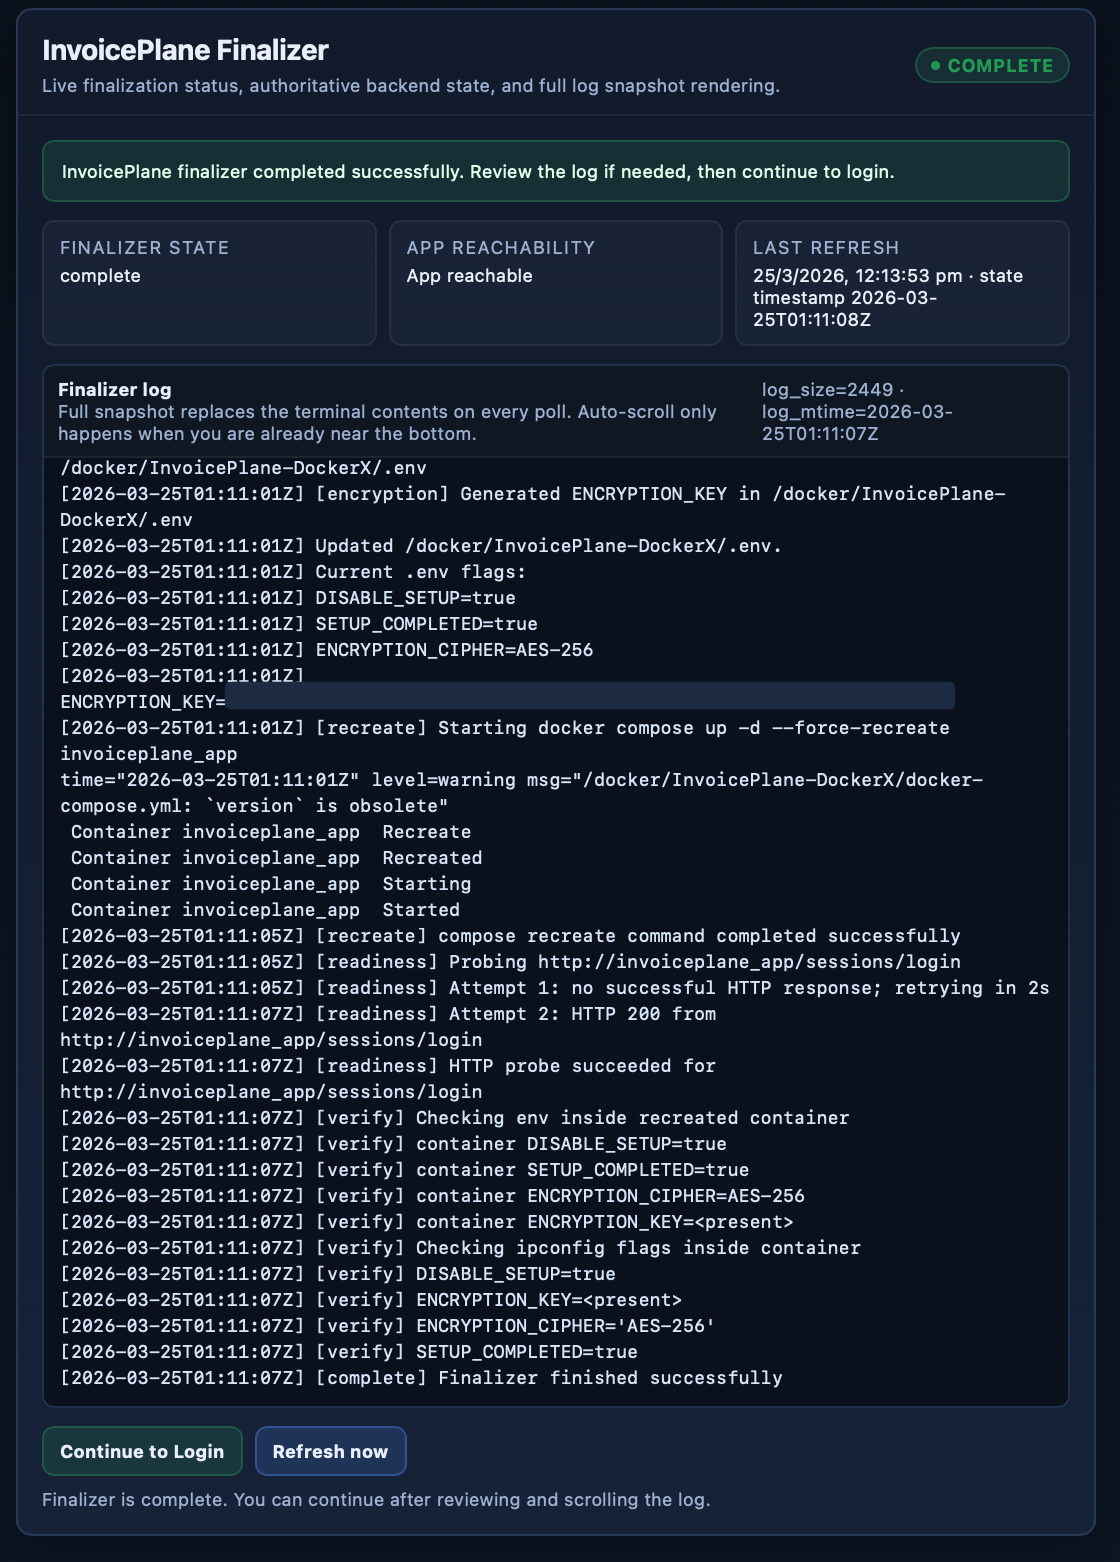
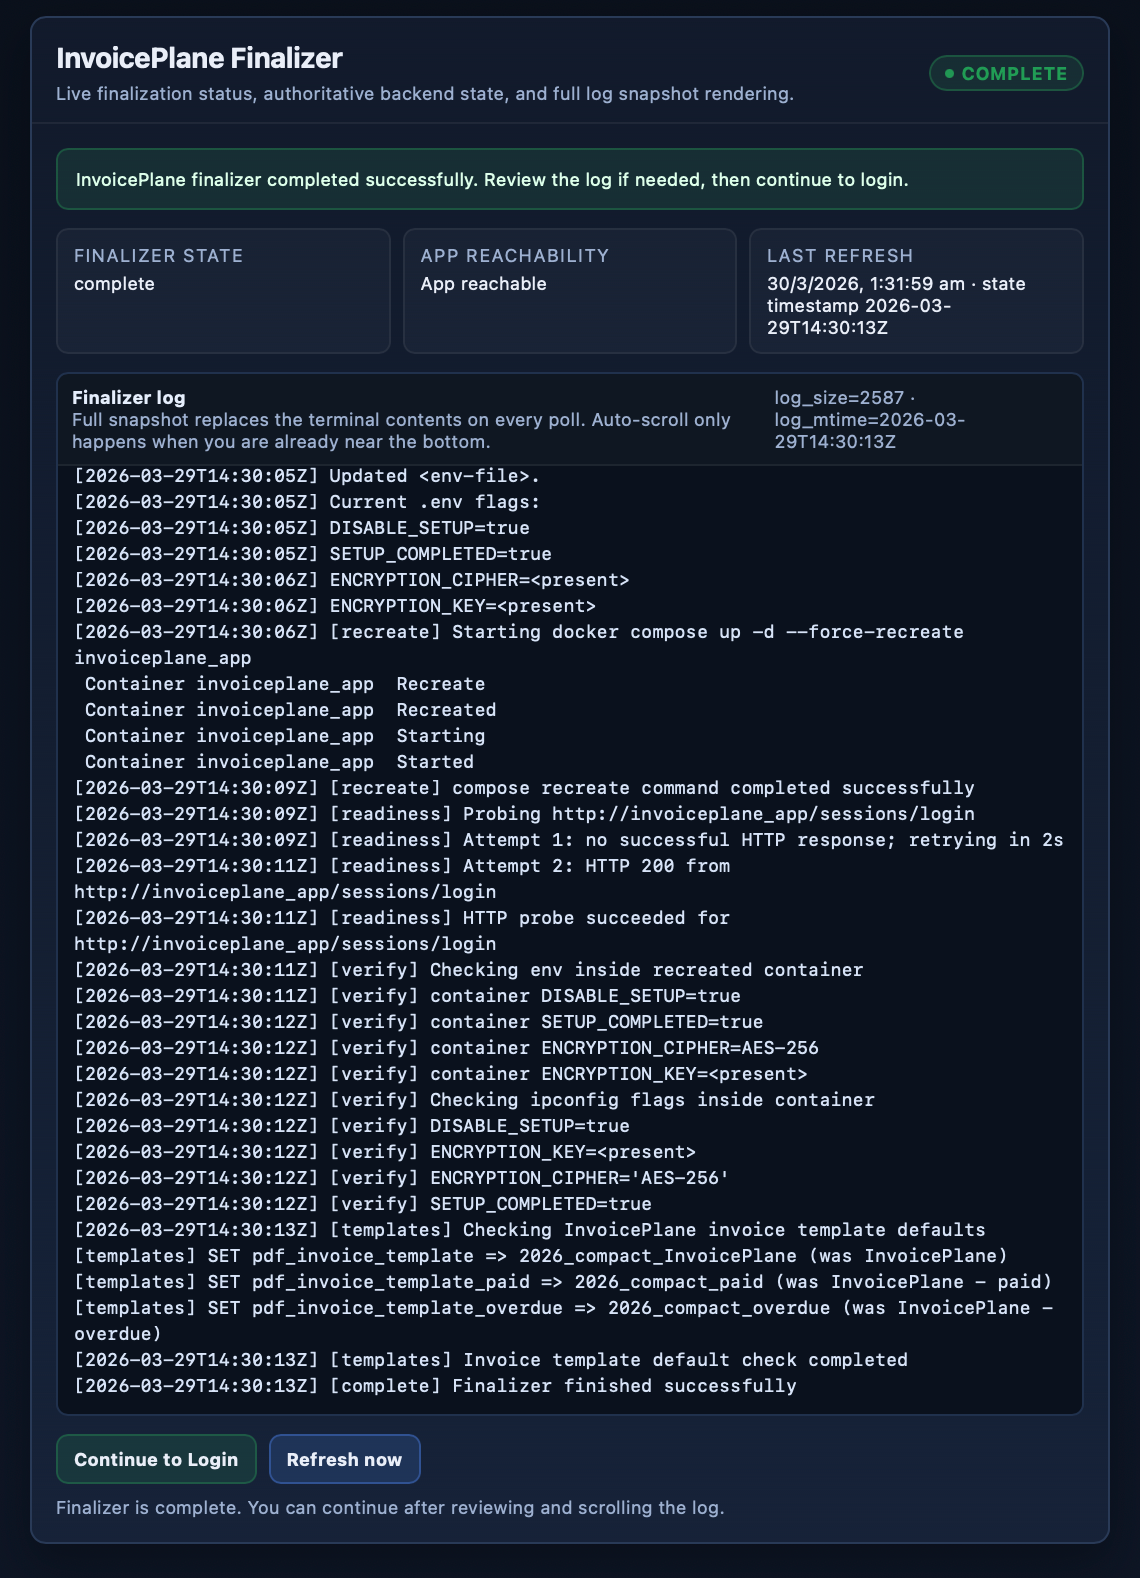
redact usernames and host paths in UI logs

diff --git a/docker/finalize/finalize_install.php b/docker/finalize/finalize_install.php
@@ -317,7 +317,7 @@ function h(string $value): string
           <div class="terminal-toolbar">
             <div>
               <div class="terminal-title">Finalizer log</div>
-              <div class="terminal-subtitle">Full snapshot replaces the terminal contents on every poll. Auto-scroll only happens when you are already near the bottom.</div>
+              <div class="terminal-subtitle">Polling terminal logs now...</div>
             </div>
             <div class="helper" id="logMeta">Waiting for log data…</div>
           </div>
@@ -464,7 +464,7 @@ function h(string $value): string
         continueButton.disabled = !allowContinue;
 
         if (lastKnownState === 'complete') {
-          actionHelper.textContent = 'Finalizer is complete. You can continue after reviewing and scrolling the log.';
+          actionHelper.textContent = 'Finalizer is complete.';
         } else if (lastKnownState === 'error' && appReachable) {
           actionHelper.textContent = 'The finalizer errored, but the app appears reachable. Manual continue is available.';
         } else if (appReachable) {
